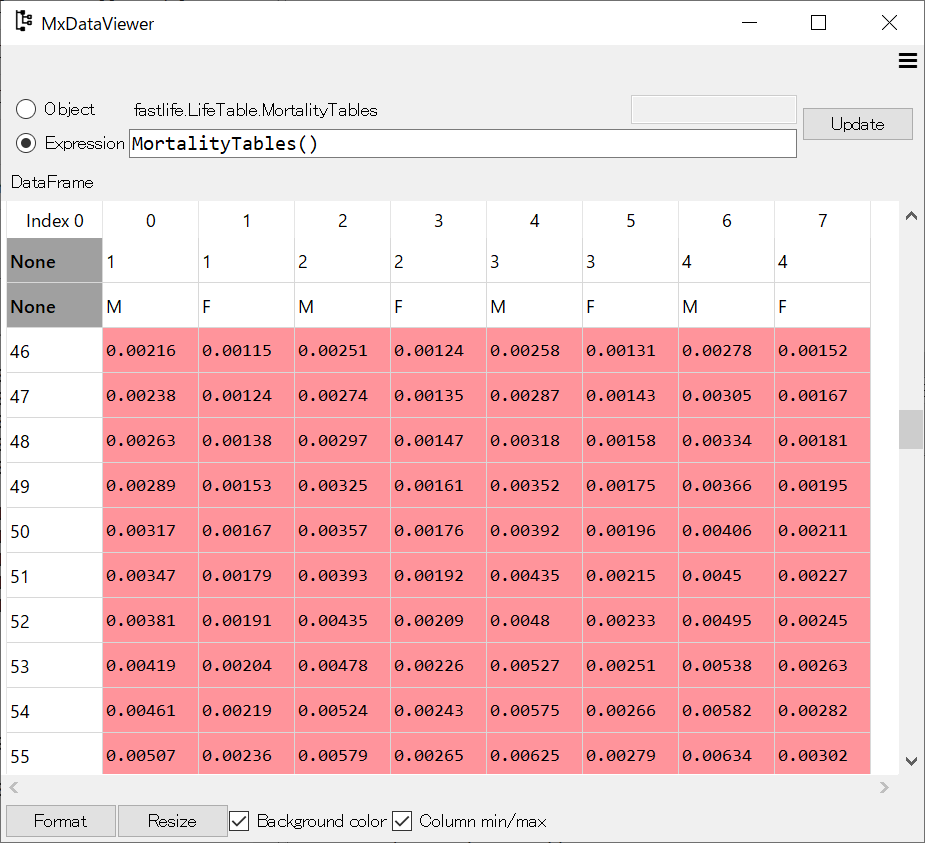
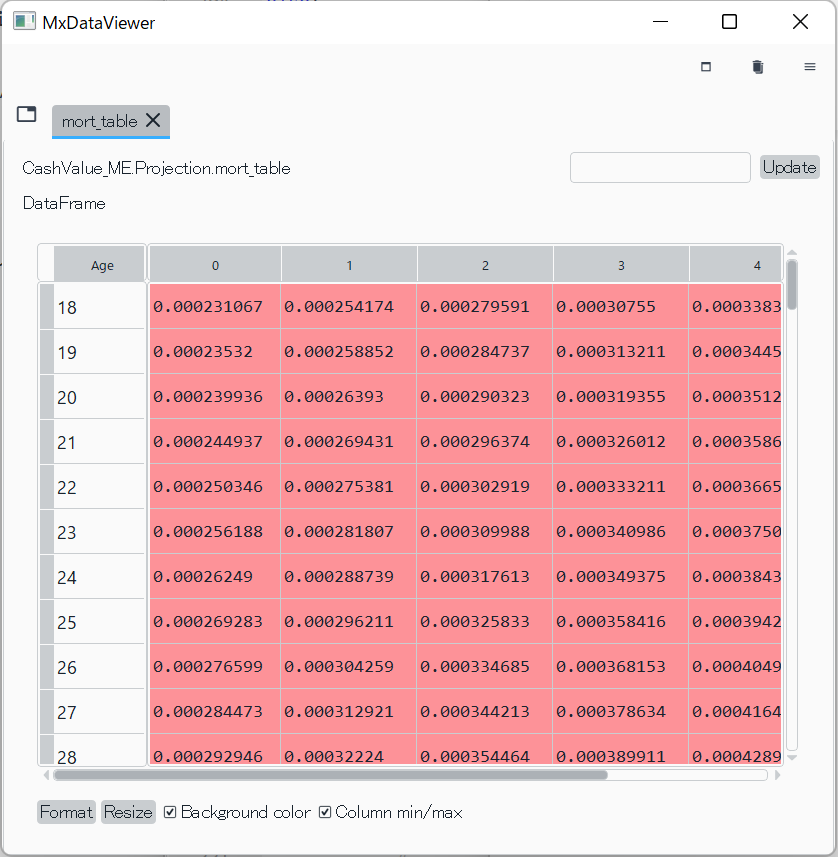
DOC: Update doc for spyder-modelx v0.13.0

diff --git a/doc/source/releases/spymx_relnotes_v0.13.0.rst b/doc/source/releases/spymx_relnotes_v0.13.0.rst
@@ -1,0 +1,50 @@
+.. currentmodule:: modelx
+
+.. _release-mxplugin-v0.13.0:
+
+spyder-modelx v0.13.0 (30 July 2022)
+=========================================
+
+This release introduces enhanced MxDataView and supports Spyder 5.3.0 - 5.3.2.
+
+Enhanced MxDataView
+--------------------
+This release introduces an enhanced MxDataView widget for Spyder5.
+For Spyder4, MxDataView in this release still works the same as the previous release's.
+
+MxDataView is used for viewing the values of modelx objects, such as Cells and References.
+It is useful especially when you examine data objects,
+such as numpy arrays and pandas Series and DataFrames,
+but the previous MxDataView had the following limitations and issues:
+
+* Only one data object can be shown at a time.
+* The selected object in MxDataView is linked to the selected object
+  in MxExplorer, which is inconvenient when you want to keep checking the value
+  of the same object as you change the formulas of other objects.
+* The *Expression* box has rarely been used.
+
+To address the issues above, MxDataView is now enhanced as follows:
+
+* The MxDataView widget now has tabs in it, allowing
+  you to view multiple data objects at the same time.
+* To select an object in MxDataView, you now need to explicitly select
+  the object from the context menu or the tool bar of MxExplorer.
+* The *Expression* box is removed.
+
+.. figure:: /images/relnotes/spymx_v0_13_0/NewMxDataView.png
+
+    Tabs and context menu in MxDataView
+
+.. figure:: /images/relnotes/spymx_v0_13_0/MenuInMxExplorerForMxDataView.png
+
+    New items in toolbar and context menu of MxExplorer for selecting objects in MxDataView
+
+Support for Spyder 5.3.x
+------------------------------
+This release supports Spyder 5.3.0, 5.3.1, 5.3.2 and possibly future versions of Spyder 5.
+
+
+
+
+
+

diff --git a/doc/source/spyder.rst b/doc/source/spyder.rst
@@ -153,20 +153,17 @@ MxExploer, and check *MxDataViewer*.
 
 .. figure:: images/spyder/SpyderMainMenuForModelx.png
 
-To specify the object to examine,
-enter a Python expression that returns
-the object in the text box labeled *Expression* and
-click the *Update* button.
-The Python expression is evaluated in the global namespace of the
-Python session in the active MxConsole.
+To specify the object to examine, click the object in the object tree
+in MxExplorer, right click to open the context menu, and
+select either *Select in DataView* or *Select in New DataView*.
+You can alternatively click one of the tool bar buttons located above the tree.
+Then enter arguments in the box in MxDataView if the object has parameters,
+and click the *Update* button.
 
-Alternatively, you can examine the value of the object
-selected in *MxExplorer*.
-
-.. figure:: images/spyder/MxDataViewerSelectedObject.png
+.. figure:: images/spyder/MenuInMxExplorerForMxDataView.png
    :align: center
 
-   MxDataViewer showing the value selected in MxExplorer
+   Items in toolbar and context menu of MxExplorer for selecting objects in MxDataView
 
 
 .. _MxAnalyzer:

diff --git a/doc/source/releases/spymx_kernels_relnotes.rst b/doc/source/releases/spymx_kernels_relnotes.rst
@@ -7,14 +7,22 @@ Since ``spyder-modelx`` v0.12.0,
 the part of Spyder kernel customization is separated from the ``spyder-modelx`` package,
 and is released as ``spymx-kernels``.
 
+
+spymx-kernels 0.1.4 (30 July 2022)
+======================================
+
+* Fixes a deprecation warning.
+
+spymx-kernels 0.1.3 (16 April 2022)
+======================================
+
+* Supports modelx 0.19.0-
+
 spymx-kernels 0.1.2 (30 January 2022)
 ======================================
 
 * Supports spyder-modelx 0.12.0-
 * Supports modelx -0.18.0
 
-spymx-kernels 0.1.3 (16 April 2022)
-======================================
 
-* Supports modelx 0.19.0-
 

diff --git a/doc/source/updates.rst b/doc/source/updates.rst
@@ -10,6 +10,10 @@ Updates
     Visit <a href="https://github.com/fumitoh/modelx/discussions" target="_blank">Discussions</a>
     for more frequent updates.</p>
 
+* *30 July 2022:*
+  spyder-modelx v0.13.0 is released. See :doc:`releases/spymx_relnotes_v0.13.0`.
+  spymx-kernels 0.1.4 is also released for a minor fix.
+
 * *24 April 2022:*
   modelx v0.19.1 is released for a bug fix.See :doc:`releases/relnotes_v0_19_1`.
 

diff --git a/doc/source/whatsnew.rst b/doc/source/whatsnew.rst
@@ -77,6 +77,7 @@ Release Notes - spyder-modelx
 .. toctree::
    :maxdepth: 1
 
+   releases/spymx_relnotes_v0.13.0.rst
    releases/spymx_relnotes_v0.12.0.rst
    releases/spymx_relnotes_v0.11.0.rst
    releases/spymx_relnotes_v0.10.0.rst
